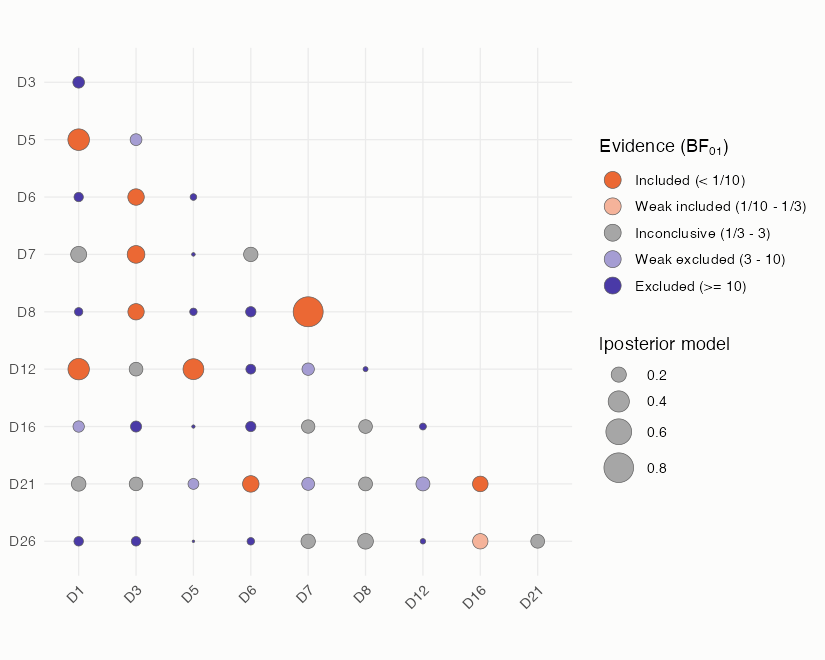
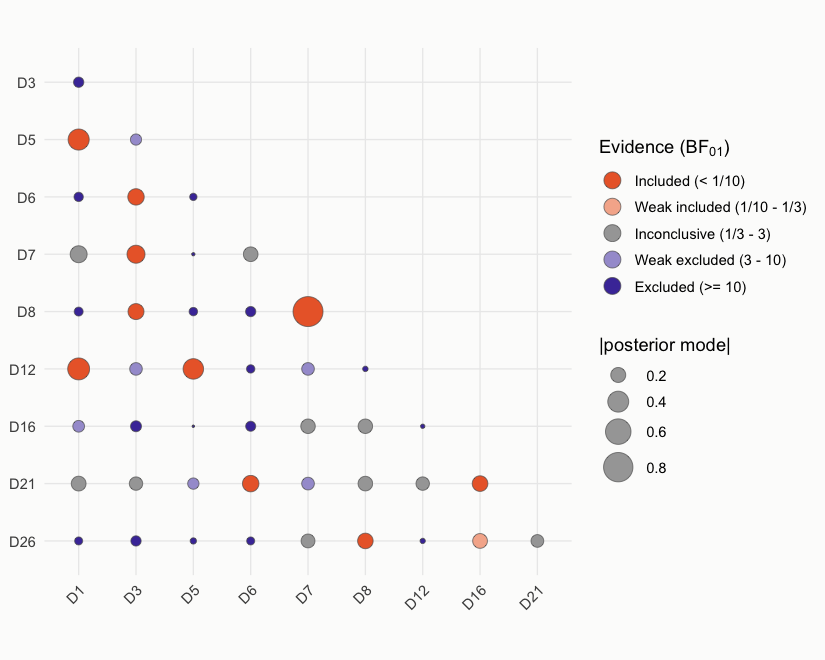
dmrfit_bayes(): default sigma2 = 1.0, as in the paper. Regenerated vignette and README figures

diff --git a/src/sampler-exact.cpp b/src/sampler-exact.cpp
@@ -127,7 +127,7 @@ double fishermala_exact_log_acceptance_ratio(const arma::vec& current_pars,
 // @param nsim number of iterations after burnin
 // @param burnin number of burnin iterations
 // @param adaptive_stage_n_iter number of iterations for the initial adaptive stage (simple MALA)
-// @param sigma2 initial value for the step size (this is adaptive and a good starting value is needed (defailt is 1.0), however, it is allowed to vary over iterations) --> for OMRF is set to 0.01 (still needed?)
+// @param sigma2 initial value of the adaptive step size (default is 1.0)
 // @param thresholds_alpha hyperparameter for the beta prior on the thresholds (default is 0.5)
 // @param thresholds_beta hyperparameter for the beta prior on the thresholds (default is 0.5)
 // @param interactions_location location parameter for the cauchy prior on the interactions (default is 0.0)

diff --git a/NEWS.md b/NEWS.md
@@ -3,6 +3,9 @@
 * Constrained fits, `dmrfit(data, structure = )`, no longer fail and return NULL ("Optimization failed") for some
   network structures. The trust-region step is now computed on the free parameters only (the thresholds and the
   interactions present in the structure). Unconstrained fits are unchanged.
+* `dmrfit_bayes()`: the default initial step size of the adaptive FisherMALA sampler is now `sigma2 = 1.0` (was 0.1),
+  the value used in Arena and Marsman (2026). The step size adapts during the burn-in, so the target distribution is
+  unchanged, but the draws for a given seed differ from version 0.1.0.
 
 # dmrfit 0.1.0
 

diff --git a/cran-comments.md b/cran-comments.md
@@ -4,6 +4,9 @@ This is a bug-fix update of version 0.1.0. Constrained fits, `dmrfit(data, struc
 for some network structures, because the trust-region step produced NaN values. The step is now computed on the free
 parameters only. Regression tests were added. Unconstrained fits give the same results as in version 0.1.0.
 
+The default initial step size of the adaptive sampler in `dmrfit_bayes()` is also changed, from 0.1 to 1.0, the value
+used in the accompanying paper.
+
 ## Test environments
 
 * local: macOS 26.6 (aarch64), R 4.5.2
